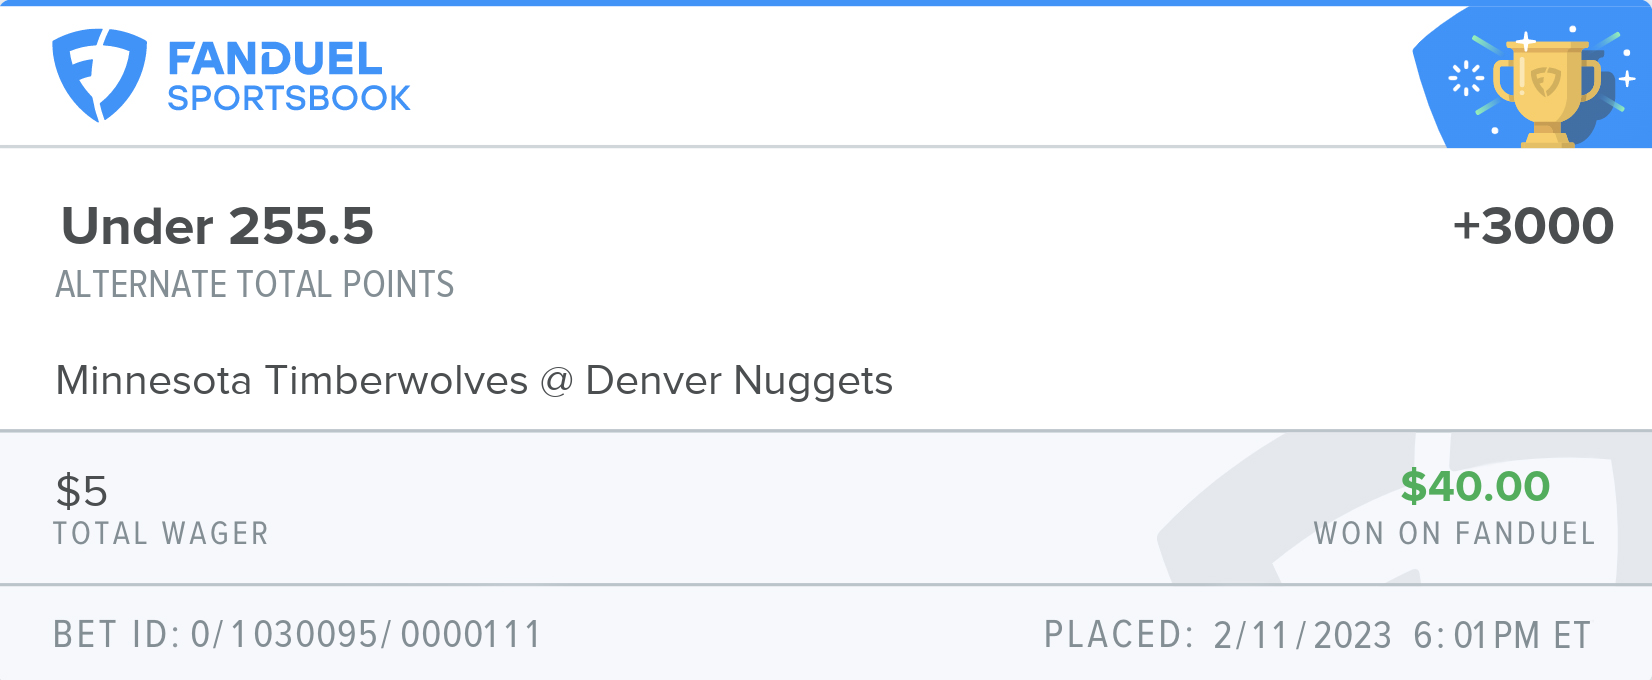
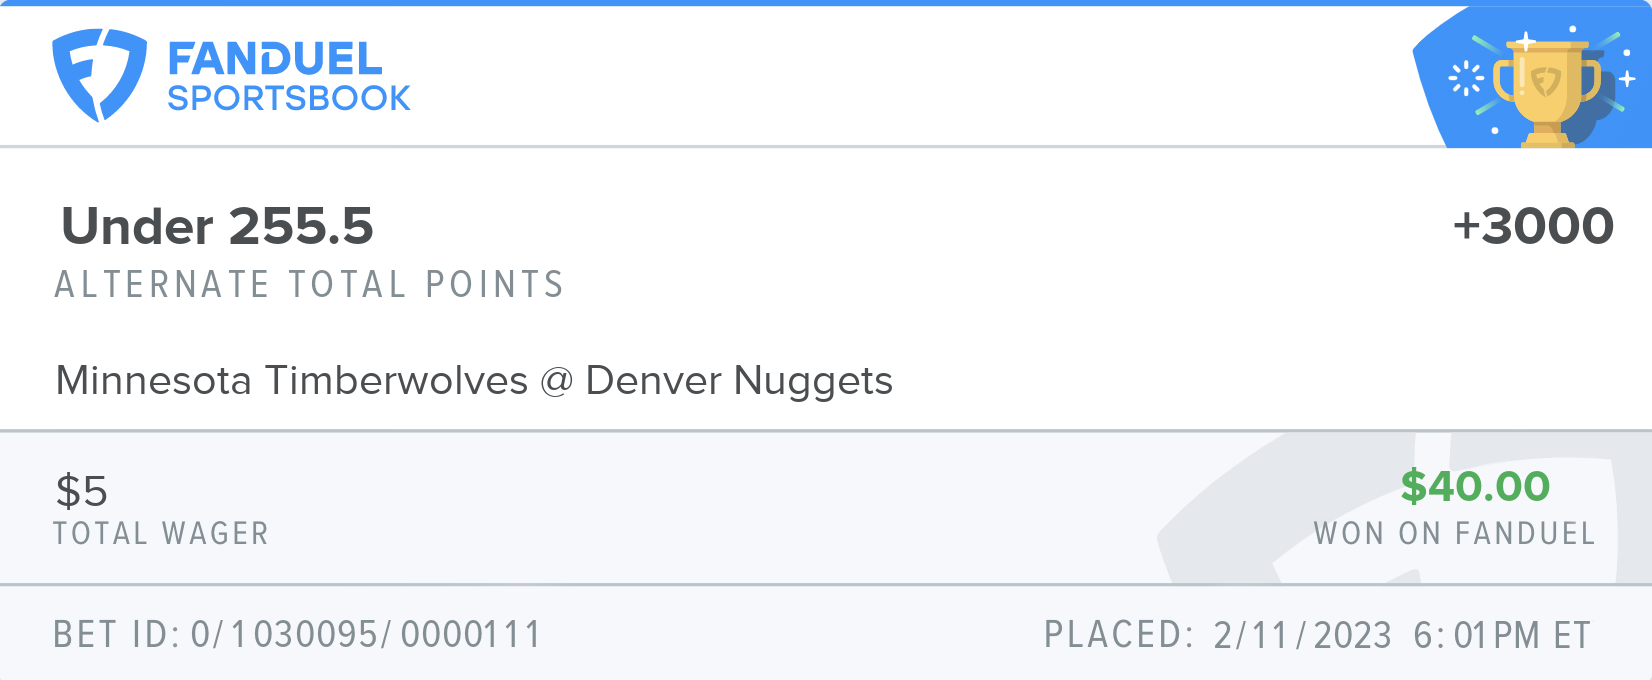
Added logic

Changed region(s): [[0.0309, 0.3706, 0.3396, 0.4632]]

diff --git a/main.py b/main.py
@@ -119,9 +119,22 @@ def on_key(event):
             draw.text((190 + (x * 21), 615), bet_id_text[x], fill=(131, 142, 148), font=ProximaNovaThin)
 
     bet_description_text = bet_description.get()
+    
+    Vowels = ["A", "E", "O", "U"]
+    x_coordinate = 55
+    space = 5  # for example, if you want 5 units of space between each letter
+    for x in range(0, len(bet_description_text)):
+        w, h = draw.textsize(bet_description_text[x], font=BetDescription2)
+        if bet_description_text[x] in Vowels:
+            draw.text((x_coordinate - 1, 265), bet_description_text[x], fill=(131, 142, 148), font=BetDescription2)
+        elif bet_description_text[x] == " ":
+            draw.text((x_coordinate - 7, 265), bet_description_text[x], fill=(131, 142, 148), font=BetDescription2)
+        else:
+            draw.text((x_coordinate, 265), bet_description_text[x], fill=(131, 142, 148), font=BetDescription2)
+        x_coordinate += w + space
 
-    draw.text((55, 265), bet_description_text, fill=(131, 142, 148), font=BetDescription2)
-        
+
+    ############################################################################################################################    
     date_placed_text = date_placed.get()
 
     for x in range(0, len(date_placed_text)):
